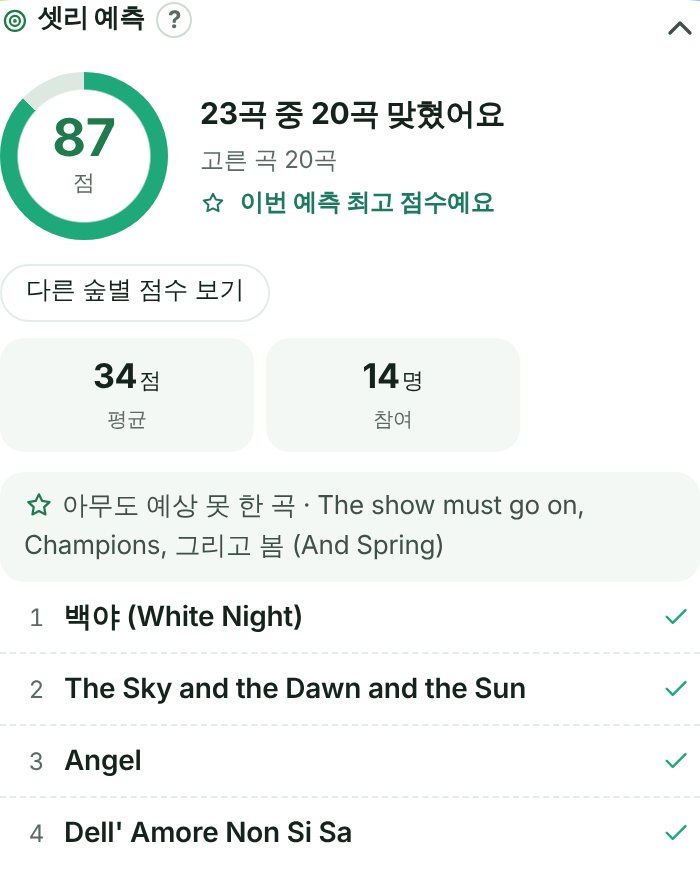
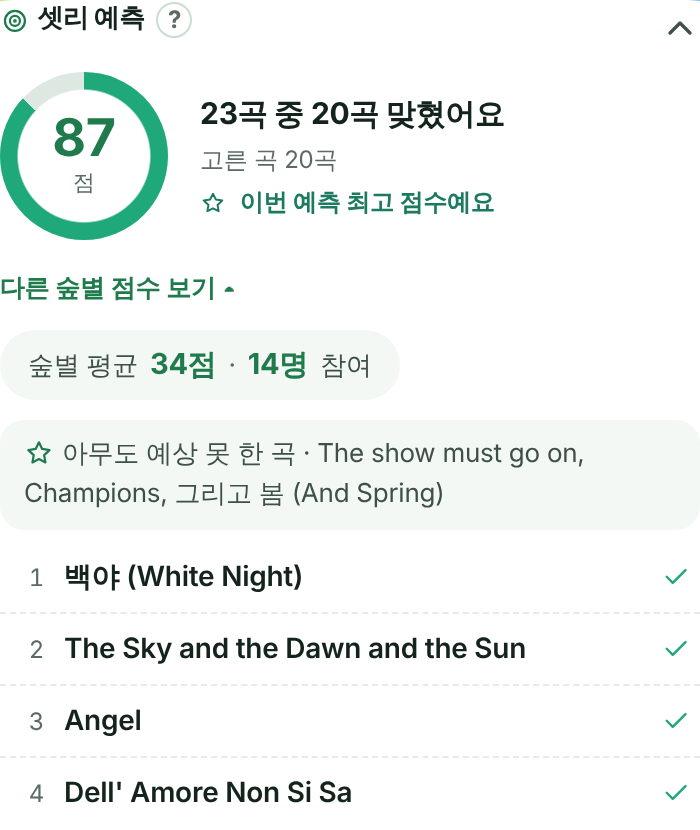
셋리 예측: 10명 넘으면 '다른 숲별 점수 보기'로 평균, 1등에게만 최고 점수 알림, 아무도 예상 못 한 곡 위로 (v557)
Claude-Session: https://claude.ai/code/session_01MGTh9zKioiZsMkgnkSk7j5

diff --git a/app.js b/app.js
@@ -4665,12 +4665,15 @@
       if (!real.length) return `<section class="d-block sp-box">${head}<p class="sub">셋리가 올라오면 점수가 나와요.</p><ol class="sp-list">${mine.map((k, i) => `<li><span class="sp-n">${i + 1}</span><span class="sp-nm">${nm(k)}</span>${pc(k)}</li>`).join('')}</ol>${topPick()}</section>`;
       const sc = spScore(real, mine), others = (data.preds || {})[e.id] || [], me = myUid();
       const all = [...others.filter(p => p.by !== me).map(p => p.keys), mine].filter(k => k.length);
-      const avg = all.length >= 4 ? Math.round(all.reduce((a, k) => a + spScore(real, k).score, 0) / all.length) : null;
+      // 10명 넘으면 '숲별 점수 보기'를 눌러야 평균 점수가 보여요 (최고 점수·순위는 안 보여요)
+      const scs = all.map(k => spScore(real, k).score), avg = all.length >= 10 ? Math.round(scs.reduce((a, x) => a + x, 0) / scs.length) : null;
+      const best = avg != null && sc.score > 0 && sc.score >= Math.max(...scs);   // 1등한테만 살짝 알려요
       const picked = new Set(all.flat()), surprise = all.length >= 4 ? real.filter(k => !picked.has(k)) : [];
       return `<section class="d-block sp-box">${head}
-        <div class="sp-score"><div class="sp-ring" style="--p:${sc.score}"><b>${sc.score}</b><small>점</small></div><div class="sp-sum"><b>${real.length}곡 중 ${sc.hit}곡 맞혔어요</b>${avg != null ? `<small>숲별 평균 ${avg}점 · ${all.length}명 참여</small>` : ''}<small>고른 곡 ${mine.length}곡</small></div></div>
-        <ol class="sp-list sp-real">${real.map((k, i) => `<li class="${mine.includes(k) ? 'hit' : ''}"><span class="sp-n">${i + 1}</span><span class="sp-nm">${nm(k)}</span>${pc(k)}${mine.includes(k) ? '<span class="sp-ok">' + wi('check') + '</span>' : ''}</li>`).join('')}</ol>
-        ${surprise.length ? `<p class="sp-sur">${wi('star')}아무도 예상 못 한 곡 · ${surprise.map(nm).join(', ')}</p>` : ''}</section>`;
+        <div class="sp-score"><div class="sp-ring" style="--p:${sc.score}"><b>${sc.score}</b><small>점</small></div><div class="sp-sum"><b>${real.length}곡 중 ${sc.hit}곡 맞혔어요</b><small>고른 곡 ${mine.length}곡</small>${best ? `<small class="sp-best">${wi('star')}이번 예측 최고 점수예요</small>` : ''}</div></div>
+        ${avg != null ? `<details class="sp-avg"><summary>다른 숲별 점수 보기 <span class="sp-avg-ar" aria-hidden="true">▾</span></summary><p class="sp-avg-in">숲별 평균 <b>${avg}점</b><span aria-hidden="true">·</span><b>${all.length}명</b> 참여</p></details>` : ''}
+        ${surprise.length ? `<p class="sp-sur">${wi('star')}아무도 예상 못 한 곡 · ${surprise.map(nm).join(', ')}</p>` : ''}
+        <ol class="sp-list sp-real">${real.map((k, i) => `<li class="${mine.includes(k) ? 'hit' : ''}"><span class="sp-n">${i + 1}</span><span class="sp-nm">${nm(k)}</span>${pc(k)}${mine.includes(k) ? '<span class="sp-ok">' + wi('check') + '</span>' : ''}</li>`).join('')}</ol></section>`;
     }
     const rec = recentSongs(e).filter(so => !mine.includes(so.key));
     const la = new Date(spLockAt(e) + 9 * 36e5), lt = `${la.getUTCMonth() + 1}.${la.getUTCDate()} ${String(la.getUTCHours()).padStart(2, '0')}:${String(la.getUTCMinutes()).padStart(2, '0')}`;

diff --git a/style.css b/style.css
@@ -1721,11 +1721,21 @@ html[data-theme="lavender"] { --ink-2: #5A4E64; --muted: #5B6B63; --green: #6C23
 .sp-sum { display: grid; gap: 3px; }
 .sp-sum b { font-size: calc(15px * var(--fs)); color: var(--ink); }
 .sp-sum small { color: var(--muted); font-size: calc(12px * var(--fs)); }
+.sp-avg { margin: 2px 0 8px; }
+.sp-avg > summary { display: inline-flex; align-items: center; gap: 4px; cursor: pointer; list-style: none; font-size: calc(12.5px * var(--fs)); font-weight: 600; color: var(--green-d); padding: 4px 0; }
+.sp-avg > summary::-webkit-details-marker { display: none; }
+.sp-avg-ar { font-size: 11px; display: inline-block; transition: transform .15s; }
+.sp-avg[open] .sp-avg-ar { transform: rotate(180deg); }
+.sp-avg-in { margin: 6px 0 0; display: inline-flex; align-items: baseline; gap: 6px; padding: 7px 14px; border-radius: 999px; background: var(--soft); font-size: calc(13px * var(--fs)); color: var(--ink-2); }
+.sp-avg-in b { color: var(--green-d); font-size: calc(14.5px * var(--fs)); }
+.sp-avg-in span { color: var(--muted); }
+.sp-sum .sp-best { color: var(--green); font-weight: 600; display: inline-flex; align-items: center; gap: 3px; }
+.sp-sum .sp-best svg { width: 13px; height: 13px; }
 .sp-real li { color: var(--muted); }
 .sp-real li .sp-nm { color: var(--muted); }
 .sp-real li.hit .sp-nm { color: var(--ink); font-weight: 600; }
 .sp-ok { color: var(--green-2); font-weight: 800; }
-.sp-sur { margin: 10px 0 0; padding: 8px 12px; border-radius: 12px; background: var(--soft); font-size: calc(13px * var(--fs)); color: var(--ink-2); }
+.sp-sur { margin: 10px 0 6px; padding: 8px 12px; border-radius: 12px; background: var(--soft); font-size: calc(13px * var(--fs)); color: var(--ink-2); }
 .rd-box { display: grid; gap: 2px; text-align: left; }
 .rd-row { display: flex; align-items: center; gap: 10px; padding: 8px 2px; border-bottom: 1px solid var(--line); font-size: calc(14px * var(--fs)); }
 .rd-row input { width: 20px; height: 20px; accent-color: var(--green-2); }

diff --git a/index.html b/index.html
@@ -23,7 +23,7 @@
 <link href="https://fonts.googleapis.com/css2?family=Gowun+Batang:wght@400;700&display=swap" rel="stylesheet">
 <link rel="stylesheet" href="https://cdn.jsdelivr.net/gh/orioncactus/pretendard@v1.3.9/dist/web/variable/pretendardvariable-dynamic-subset.min.css">
 <script>try{var d=JSON.parse(localStorage.getItem('sb-deco')||'{}');if(d.t)document.documentElement.dataset.theme=d.t;if(d.f)document.documentElement.dataset.fs=d.f}catch(e){}</script>
-<link rel="stylesheet" href="style.css?v=556">
+<link rel="stylesheet" href="style.css?v=557">
 </head>
 <body>
 <div class="app">
@@ -46,9 +46,9 @@
 <!-- 방문자 수 (GoatCounter: 쿠키·개인정보 없이 화면별 방문 수만 세요) -->
 <script data-goatcounter="https://soopbyeol.goatcounter.com/count" data-goatcounter-settings='{"no_onload": true}' async src="https://gc.zgo.at/count.js"></script>
 <script src="lib/fuse.min.js"></script>
-<script src="i18n.js?v=556"></script>
-<script src="config.js?v=556"></script>
-<script src="data.js?v=556"></script>
-<script src="app.js?v=556"></script>
+<script src="i18n.js?v=557"></script>
+<script src="config.js?v=557"></script>
+<script src="data.js?v=557"></script>
+<script src="app.js?v=557"></script>
 </body>
 </html>

diff --git a/sw.js b/sw.js
@@ -1,6 +1,6 @@
 // 한 번 연 화면 파일을 저장해 두고, 다음부터 빨리 열거나 인터넷이 없을 때 써요.
 // 시트 데이터는 data.js가 따로 저장하니까 여기서는 사이트 파일만 다뤄요.
-const CACHE = 'soopbyeol-v556';
+const CACHE = 'soopbyeol-v557';
 const SHELL = ['./', 'index.html', 'style.css?v=162', 'config.js?v=162', 'data.js?v=162', 'app.js?v=162', 'lib/fuse.min.js', 'manifest.webmanifest', 'icons/icon-192.png'];
 
 self.addEventListener('install', ev => {
